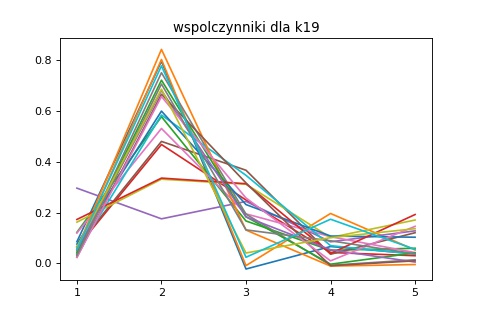
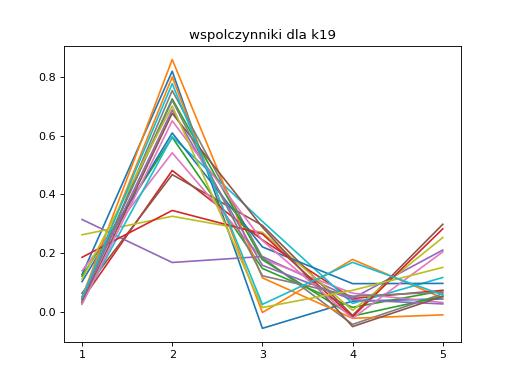
Patient add new functions

diff --git a/analysis.py b/analysis.py
@@ -1,14 +1,21 @@
 import os
 import matplotlib.pyplot as plt
+import numpy
+from statsmodels.tsa.ar_model import AutoReg as AR
+
 
 MAIN_PATH_PATIENTS = ".\\patient"
 MAIN_PATH_RESULTS = ".\\results"
 
 
-def check_path_exists(path):
+def set_path(path, name_file):
+    # make sure path is exists
     if not os.path.exists(path):
         os.makedirs(path)
-    return True
+
+    return os.path.join(path, name_file)
+
+
 
 
 def create_plot(data, title, title_x, title_y, path_to_save):
@@ -18,12 +25,9 @@ def create_plot(data, title, title_x, title_y, path_to_save):
     plt.ylabel(title_y)
     plt.title(title)
 
+    path = set_path(path_to_save, title)
 
-    if check_path_exists(path_to_save):
-        path = os.path.join(path_to_save, title)
-        plt.savefig(path+'.jpg', dpi=80)
-
-
+    plt.savefig(path+'.jpg', dpi=80)
     plt.show()
 
 class Patient:
@@ -53,7 +57,7 @@ class Patient:
             raise NotImplementedError()
 
         create_plot(self.data, 'Tachograf', 'n', 'RR [ms]', self.result_path_save)
-        print(f"The tachogram has been saved to: '{self.result_path_save}' as a file named 'Tachogram.jpg'")
+        print(f"The tachogram has been saved to: '{self.result_path_save}' as a file name 'Tachogram.jpg'")
 
     def create_windows(self, quantity=1000):
         """
@@ -62,14 +66,53 @@ class Patient:
         """
         stop = len(self.data)
         for start in range(0, stop, quantity):
-            self.windows.append(self.data[start:min(start+quantity, stop)])
+            yield self.data[start:min(start+quantity, stop)]
+
+    def calculate_coef_AR(self,data):
+
+        train_model = numpy.array(data)
+        model = AR(train_model/1000, lags=8)
+        model_fit = model.fit()
+        coef = model_fit.params
+
+        return coef
+
+    def create_coef_AR(self):
+        """
+        Create file and plot with coef
+        :return:
+        """
+        coefs = []
+
+        for index, window in enumerate(self.create_windows()):
+
+            coef = self.calculate_coef_AR(window)
+            plt.plot(numpy.arange(1,6), coef[:5], label=f'coafs {index}')
+            coefs.append(coef)
+
+        plt.legend(ncol=3, fontsize='x-small').set_title('Individual coefficients of a given window')
+        plt.title("Windows with coefficients")
+        plt.xticks(numpy.arange(1,6))
+
+        path = set_path(self.result_path_save, 'Coefs')
+        plt.savefig(path + '.jpg', dpi=150)
+        plt.show()
+        print(f"The figure with five first coefficients has been saved to {self.result_path_save} as a file name cofes.jpg ")
+
+        # create file.txt with coefs
+        path = set_path(self.result_path_save, 'coefs')
+        with open(path+'.txt', 'w') as file:
+            for list in coefs:
+                for single_item in list:
+                    file.write(f"{single_item:.18}    ")
+                file.write('\n')
+
+
 
 a = Patient("k19_12.00.cut_500.txt")
-print(a.file_name)
-print(a.gender)
-print(a.age)
-print(a.id)
 a.get_data()
-a.create_tachogram()
+#a.create_tachogram()
+#print(a.calculate_coef_AR())
+a.create_coef_AR()
 
 

diff --git a/analiza_kobiet.py b/analiza_kobiet.py
@@ -24,10 +24,12 @@ def tablica(kto):
 
 #funkcja wyliczająca współczynniki 
 def AR_function(train):
+
     t=np.array(train)
-    model=AR(t/1000, lags=4)
+    model=AR(t/1000, lags=8)
     model_fit=model.fit()
     coef=model_fit.params
+
     return coef
 
 #wzorce dla poszczególnych faz
@@ -87,24 +89,23 @@ if __name__=='__main__':
         if i+k > len(z):    #pliki nie są równe dlatego u niektórych pacjentów ostatnie okno może być mniejsze 
             k=len(z)-i
         coef=AR_function(z[i:i+k])      #tworzenie współczynników   
-        #plt.plot(np.arange(1,6),coef[:5])
+        plt.plot(np.arange(1,6),coef[:5])
         tab.append(coef)
-    print(tab)
-    # y=np.array(tab)
-    # plt.xticks(np.arange(1,6))
-    # plt.title("wspolczynniki dla "+who[:3] )
-    # plt.savefig("./wyniki/k/"+who+"/coef_"+who+'.jpg',dpi=80)
-    # print("Wykres z 5 pierwszymi współczynnikami znajduje się w: ./wyniki/k/ nazwa_pacjenta /")
-    # plt.show()
-    #
-    # #wpisywanie wspolczynnikow do pliku
-    # plik=open(path+who+'_wyniki_AR.txt', 'w')
-    # for i in range(len(y)):
-    #     for j in range(len(y[i])):
-    #           s=str(y[i][j])
-    #           plik.write(' %18s'%(s)+'%2s'%(' '))
-    #     plik.write('\n')
-    # plik.close()
+    y=np.array(tab)
+    plt.xticks(np.arange(1,6))
+    plt.title("wspolczynniki dla "+who[:3] )
+    plt.savefig("./wyniki/k/"+who+"/coef_"+who+'.jpg',dpi=80)
+    print("Wykres z 5 pierwszymi współczynnikami znajduje się w: ./wyniki/k/ nazwa_pacjenta /")
+    plt.show()
+
+    #wpisywanie wspolczynnikow do pliku
+    plik=open(path+who+'_wyniki_AR.txt', 'w')
+    for i in range(len(y)):
+        for j in range(len(y[i])):
+              s=str(y[i][j])
+              plik.write(' %18s'%(s)+'%2s'%(' '))
+        plik.write('\n')
+    plik.close()
     # print("Wszystkie współczynniki AR znajdują się w folderze: ./wyniki/k/ nazwa_pacjenta /")
     # # zmiana tab na array
     #
